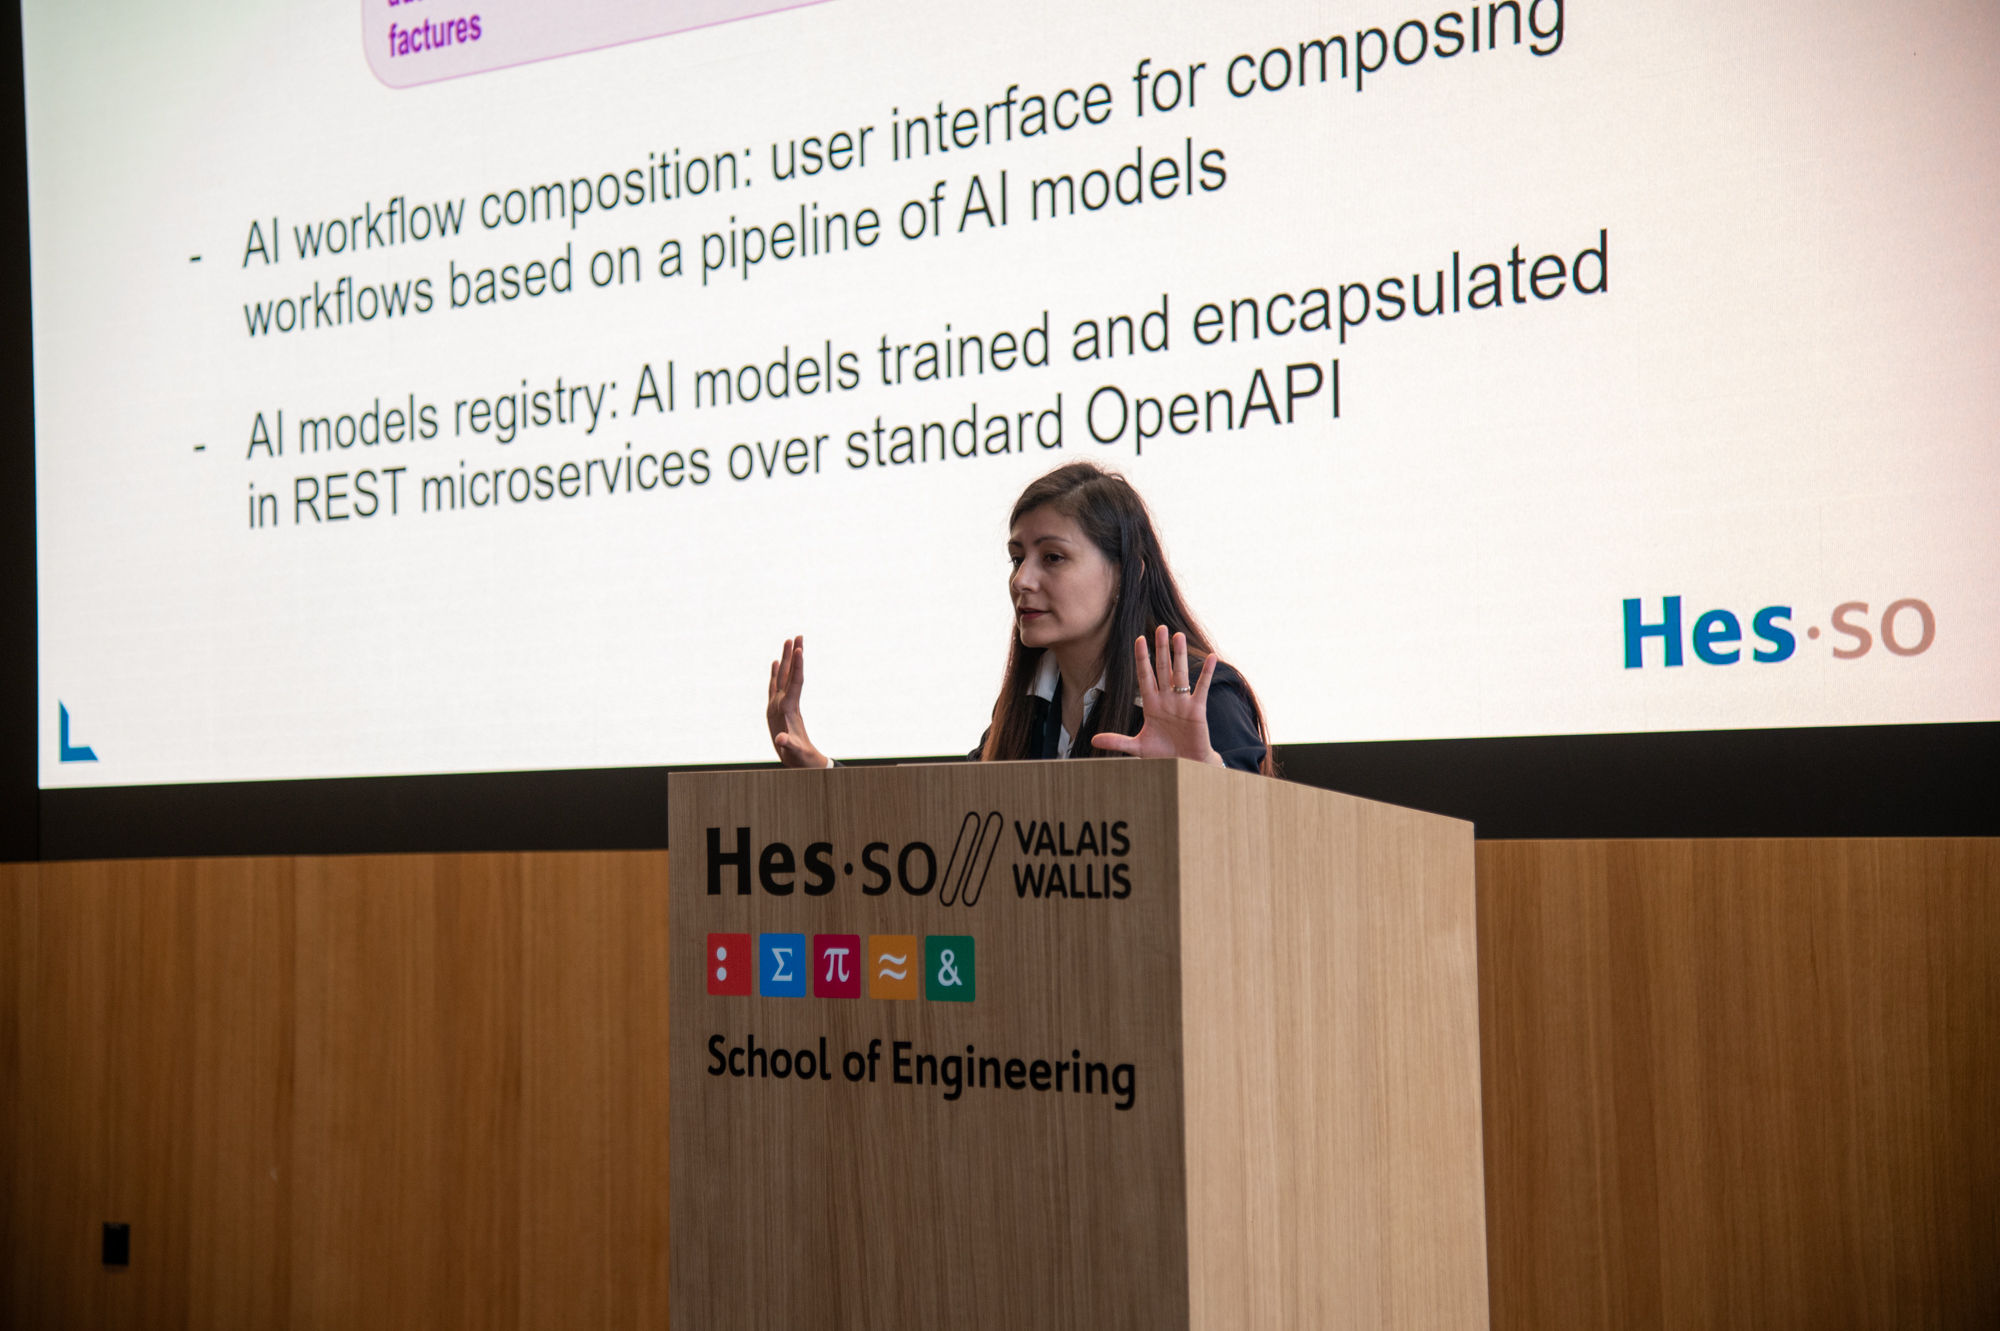
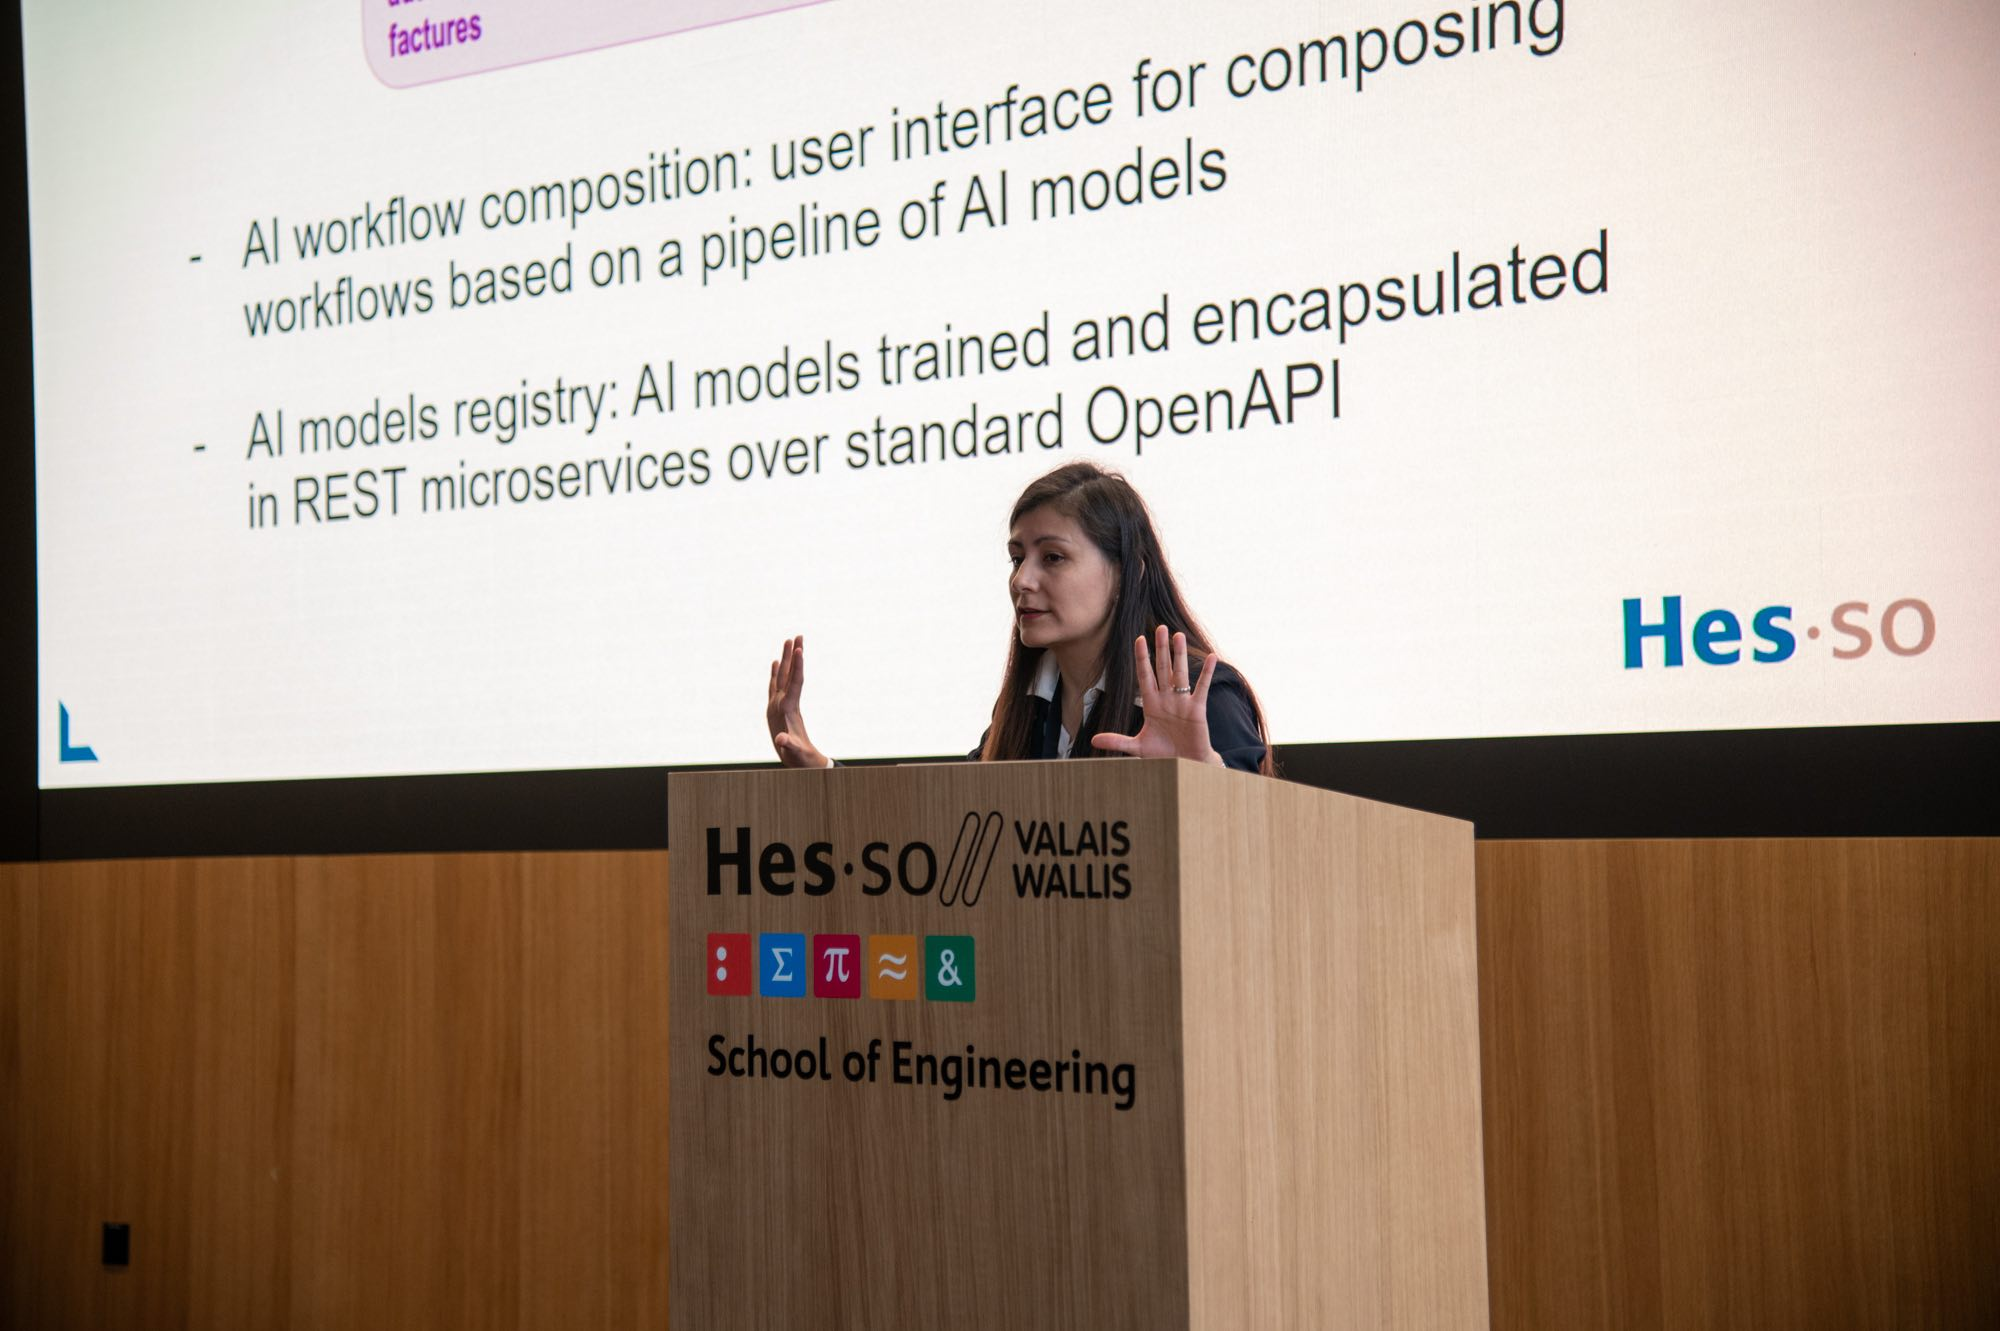
Added header text for workhops, compressed pictures, fixed typos.

diff --git a/src/pages/Workshops/index.tsx b/src/pages/Workshops/index.tsx
@@ -8,6 +8,7 @@ import {useSelector} from 'react-redux';
 import {Card} from 'primereact/card';
 import "./styles.css";
 import Footer from "../../components/Footer/footer";
+import parseHtml from "html-react-parser";
 
 interface Workshop {
     title: string;
@@ -87,6 +88,14 @@ const Workshops: React.FC = () => {
                 />
 
             </Paper>
+
+            {/* Entête workshops */}
+            <Box sx={{display: 'flex', flexDirection: 'column', p: 2}}>
+                <Typography variant={"h4"}
+                            sx={{fontWeight: 'bold'}}>{t(`years.${selectedYearIndex(year)}.workshops.header.title`)}</Typography>
+                <Typography variant={"body1"}
+                            pt={1}>{parseHtml(t(`years.${selectedYearIndex(year)}.workshops.header.description`))}</Typography>
+            </Box>
 
             {/* Affichage dynamique des workshops */}
             <div className={"div-cards"}>

diff --git a/src/pages/Partners/index.tsx b/src/pages/Partners/index.tsx
@@ -29,7 +29,7 @@ const Partners: React.FC = () => {
         <Container maxWidth={"xl"}>
             <Box
                 sx={{
-                    backgroundImage: 'url("/partenaires.png")',
+                    backgroundImage: 'url("/partenaires.jpg")',
                     backgroundSize: 'cover',
                     backgroundPosition: 'center',
                     height: '500px',
